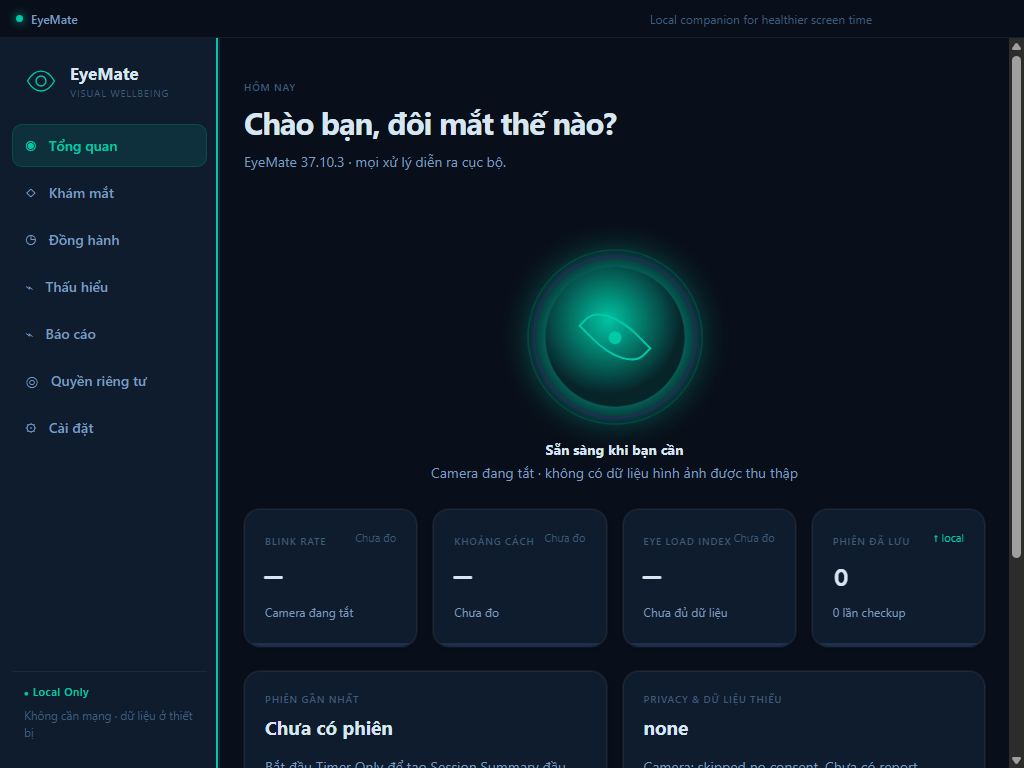
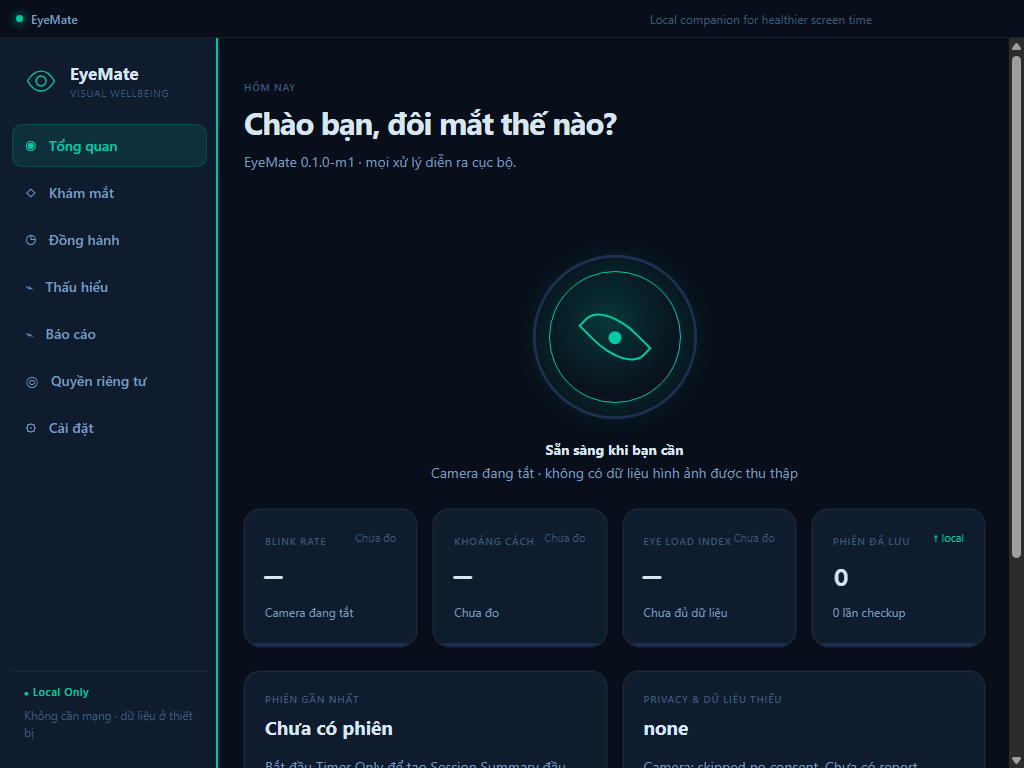
fix(ui): stabilize product version and evidence

Changed region(s): [[0.5, 0.3125, 0.6875, 0.5625], [0.2812, 0.1875, 0.5, 0.2188]]

diff --git a/src/main/main.ts b/src/main/main.ts
@@ -5,6 +5,7 @@ import { fileURLToPath } from "node:url";
 import { randomUUID } from "node:crypto";
 import { createSecureWindowOptions } from "./window-options.js";
 import type { RuntimeInfo } from "../shared/runtime-contract.js";
+import { EYEMATE_APPLICATION_VERSION } from "../shared/product-meta.js";
 import type { CheckupSummary, PrivacySummary, SurveyRequest } from "../shared/m1-contract.js";
 import { createSurveyOnlyExportPreview, resolveDeletionResult } from "../user-data/data-controls.js";
 import { DEFAULT_USER_PREFERENCES, openLocalSqliteStorage, resolveDatabasePath, type LocalSqliteStorage } from "../platform-electron/sqlite-storage.js";
@@ -41,7 +42,7 @@ if (smokeMode || companionSmokeMode || intelligenceSmokeMode || uiValidationMode
 function getRuntimeInfo(): RuntimeInfo {
   return {
     mode: "LOCAL_ONLY",
-    applicationVersion: app.getVersion()
+    applicationVersion: EYEMATE_APPLICATION_VERSION
   };
 }
 
@@ -51,6 +52,7 @@ let sessionMonotonicMs = 0;
 let lastNudgeMonotonicMs: number | null = null;
 let nudgesInSession = 0;
 const nudgeAdapter = new InProcessNudgeAdapter();
+const currentIso = (): string => uiValidationMode ? "2026-07-14T12:00:00.000Z" : new Date().toISOString();
 const sessionNow = (): number => {
   sessionMonotonicMs = Math.max(sessionMonotonicMs + 1, Math.round(performance.now()));
   return sessionMonotonicMs;
@@ -59,7 +61,7 @@ const sessionNow = (): number => {
 function persistActiveSessionBeforeExit(): void {
   if (workSession?.state !== "ACTIVE") return;
   workSession = tickSession(workSession, sessionNow());
-  storage?.saveSession({ sessionId: workSession.id, modeId: workSession.modeId, state: workSession.state, elapsedActiveMs: workSession.elapsedActiveMs, updatedAt: new Date().toISOString() });
+  storage?.saveSession({ sessionId: workSession.id, modeId: workSession.modeId, state: workSession.state, elapsedActiveMs: workSession.elapsedActiveMs, updatedAt: currentIso() });
 }
 
 function updateWorkSession(event: "START" | "STARTED" | "PAUSE" | "RESUME" | "FINISH" | "CANCEL"): WorkSession {
@@ -67,9 +69,9 @@ function updateWorkSession(event: "START" | "STARTED" | "PAUSE" | "RESUME" | "FI
   if (workSession === null) workSession = createSession(`session-${randomUUID().slice(0, 8)}`, "TIMER_ONLY");
   const previousState = workSession.state;
   workSession = applySessionEvent(workSession, event, now);
-  storage?.saveSession({ sessionId: workSession.id, modeId: workSession.modeId, state: workSession.state, elapsedActiveMs: workSession.elapsedActiveMs, updatedAt: new Date().toISOString() });
+  storage?.saveSession({ sessionId: workSession.id, modeId: workSession.modeId, state: workSession.state, elapsedActiveMs: workSession.elapsedActiveMs, updatedAt: currentIso() });
   if (workSession.state !== previousState && (workSession.state === "COMPLETED" || workSession.state === "CANCELLED")) {
-    const createdAt = new Date().toISOString();
+    const createdAt = currentIso();
     const summary = createSessionSummary(workSession, "m2-companion-policy/0.1.0");
     const summaryId = `summary-${randomUUID().slice(0, 8)}`;
     storage?.saveSessionSummary({ summaryId, sessionId: workSession.id, status: summary.timerOutcome, elapsedActiveMs: summary.durationActiveMs, createdAt, summaryJson: JSON.stringify(summary) });
@@ -115,7 +117,7 @@ function requestBreakNudge(): NudgeDecision & { readonly nudgeId: string } {
     lastNudgeMonotonicMs = now;
     nudgesInSession += 1;
     const delivery = nudgeAdapter.deliver({ nudgeId, sessionId: workSession.id, actionKey: "TAKE_SHORT_BREAK", policyVersion: decision.policyVersion });
-    storage?.recordNudge({ nudgeId, sessionId: workSession.id, decision: decision.action, reason: decision.reason, policyVersion: decision.policyVersion, createdAt: new Date().toISOString(), action: decision.suggestedActionKey, deliveryState: delivery.state === "DELIVERED" ? "EMITTED" : "ABSTAINED" });
+    storage?.recordNudge({ nudgeId, sessionId: workSession.id, decision: decision.action, reason: decision.reason, policyVersion: decision.policyVersion, createdAt: currentIso(), action: decision.suggestedActionKey, deliveryState: delivery.state === "DELIVERED" ? "EMITTED" : "ABSTAINED" });
   }
   return { ...decision, nudgeId };
 }
@@ -139,7 +141,7 @@ function runSurveyOnly(request: SurveyRequest): CheckupSummary {
   const safety = evaluateSafetyGate({ answers: { safety_signal_a: request.safety, safety_signal_b: "NEGATIVE" } }, internalSafetyCatalogue);
   const draft = recordSurveyAnswer(createSurveyDraft(), "comfort_now", request.response);
   const report = createSurveyOnlyReport(draft, safety.outcome);
-  const createdAt = new Date().toISOString();
+  const createdAt = currentIso();
   const reportId = randomUUID();
   storage?.saveSurveyOnlyReport({ reportId, status: report.status, action: report.action, provenanceVersion: report.provenance.reportSchemaVersion, createdAt });
   const source = fromSurveyOnly({ reportId, createdAt, timezone: Intl.DateTimeFormat().resolvedOptions().timeZone || "UTC", schemaVersion: report.provenance.reportSchemaVersion, symptomBurden: null });
@@ -149,14 +151,14 @@ function runSurveyOnly(request: SurveyRequest): CheckupSummary {
 
 function completeOnboardingWithoutCamera(): void {
   if (storage === null) throw new Error("LOCAL_STORAGE_UNAVAILABLE");
-  const now = new Date().toISOString();
+  const now = currentIso();
   storage.save({ stage: "COMPLETE", updatedAt: now });
   storage.saveCameraConsent({ purpose: "CAMERA_MEASUREMENT", scope: "LOCAL_CAMERA", textVersion: "m1-camera-1", decision: "SKIPPED", decidedAt: now });
 }
 
 function withdrawCameraConsent(): void {
   if (storage === null) throw new Error("LOCAL_STORAGE_UNAVAILABLE");
-  storage.saveCameraConsent({ purpose: "CAMERA_MEASUREMENT", scope: "LOCAL_CAMERA", textVersion: "m1-camera-1", decision: "WITHDRAWN", decidedAt: new Date().toISOString() });
+  storage.saveCameraConsent({ purpose: "CAMERA_MEASUREMENT", scope: "LOCAL_CAMERA", textVersion: "m1-camera-1", decision: "WITHDRAWN", decidedAt: currentIso() });
 }
 
 function analyticsInputs(): readonly AnalyticsInput[] {
@@ -168,7 +170,7 @@ function analyticsInputs(): readonly AnalyticsInput[] {
 function generateM3Report(): PersonalReport {
   const inputs = analyticsInputs();
   const timezone = inputs[0]?.timezone ?? "UTC";
-  const now = new Date().toISOString();
+  const now = currentIso();
   const report = buildPersonalReport(inputs, localDateFor(now, timezone), timezone, now);
   storage?.saveM3Record({ id: `baseline-${report.baseline.contextKey}-${now.slice(0, 10)}`, kind: "BASELINE", createdAt: now, payloadJson: JSON.stringify(report.baseline) });
   storage?.saveM3Record({ id: `daily-${report.daily.localDate}-${timezone.replace(/[^a-z0-9]/gi, "-")}`, kind: "DAILY", createdAt: now, payloadJson: JSON.stringify(report.daily) });
@@ -187,7 +189,7 @@ function currentM3Report(): PersonalReport {
   if (existing !== undefined) return existing;
   const inputs = analyticsInputs();
   const timezone = inputs[0]?.timezone ?? "UTC";
-  const now = new Date().toISOString();
+  const now = currentIso();
   return buildPersonalReport(inputs, localDateFor(now, timezone), timezone, now);
 }
 
@@ -207,7 +209,7 @@ function registerIpcHandlers(): void {
   ipcMain.handle("work-session:get", () => workSession);
   ipcMain.handle("work-session:list-summaries", () => storage?.listSessionSummaries() ?? []);
   ipcMain.handle("work-session:request-break-nudge", () => requestBreakNudge());
-  ipcMain.handle("work-session:respond-nudge", (_event, nudgeId: string, response: NudgeResponse) => storage?.recordNudgeResponse(nudgeId, response, new Date().toISOString()) ?? false);
+  ipcMain.handle("work-session:respond-nudge", (_event, nudgeId: string, response: NudgeResponse) => storage?.recordNudgeResponse(nudgeId, response, currentIso()) ?? false);
   ipcMain.handle("m3:generate-report", () => generateM3Report());
   ipcMain.handle("m3:list-reports", () => listM3Reports());
   ipcMain.handle("m3:preview-professional-summary", (_event, format: LocalExportFormat = "MARKDOWN") => {
@@ -215,7 +217,7 @@ function registerIpcHandlers(): void {
     const report = currentM3Report();
     return format === "JSON" ? JSON.stringify(report, null, 2) : renderProfessionalSummary(report);
   });
-  ipcMain.handle("m3:reset-baseline", () => { const now = new Date().toISOString(); storage?.saveM3Record({ id: `baseline-reset-${randomUUID().slice(0, 12)}`, kind: "BASELINE", createdAt: now, payloadJson: JSON.stringify({ state: "RESET", version: "m3-baseline/0.1.0" }) }); return "DELETED"; });
+  ipcMain.handle("m3:reset-baseline", () => { const now = currentIso(); storage?.saveM3Record({ id: `baseline-reset-${randomUUID().slice(0, 12)}`, kind: "BASELINE", createdAt: now, payloadJson: JSON.stringify({ state: "RESET", version: "m3-baseline/0.1.0" }) }); return "DELETED"; });
   ipcMain.handle("m3:delete-data", () => storage?.deleteM3Records() ?? "DELETED");
   ipcMain.handle("m3:delete-category", (_event, category: M3DataCategory) => {
     if (!["BASELINE", "PATTERN", "SUMMARY", "REPORT", "ALL"].includes(category)) throw new Error("INVALID_M3_DATA_CATEGORY");
@@ -329,10 +331,12 @@ async function runUiValidation(window: BrowserWindow): Promise<void> {
   const wait = async (milliseconds = 180): Promise<void> => await new Promise((resolve) => setTimeout(resolve, milliseconds));
   const evaluate = async <T>(source: string): Promise<T> => await window.webContents.executeJavaScript(source, true) as T;
   const requireTrue = (value: unknown, reason: string): void => { if (value !== true) throw new Error(reason); };
+  await evaluate("(() => { const style = document.createElement('style'); style.textContent = '*{animation:none!important;transition:none!important}'; document.head.append(style); return true; })()");
   const capture = async (name: string, width = 1280, height = 800): Promise<void> => {
     if (uiScreenshotDirectory === null) return;
     window.setSize(width, height);
     await wait(420);
+    if (name === "session-active") await evaluate("(() => { const timer = document.querySelector('.session-panel .session-timer'); timer.textContent = '00:00:01'; timer.removeAttribute('id'); const progress = document.querySelector('.session-panel .session-progress span'); if (progress) progress.style.setProperty('--progress', '1%'); return true; })()");
     requireTrue(await evaluate("document.documentElement.scrollWidth <= window.innerWidth && document.querySelector('.app-shell').getBoundingClientRect().right <= window.innerWidth + 1"), `UI_LAYOUT_OVERFLOW_${width}x${height}`);
     const image = await window.webContents.capturePage();
     await mkdir(uiScreenshotDirectory, { recursive: true });
@@ -364,6 +368,7 @@ async function runUiValidation(window: BrowserWindow): Promise<void> {
   requireTrue(await evaluate("Boolean(document.querySelector('#session-toggle')) && document.body.textContent.includes('Phiên đang hoạt động')"), "UI_SESSION_START_INVALID");
   await wait(1_050);
   requireTrue(await evaluate("document.querySelector('#session-timer').textContent !== '00:00:00'"), "UI_SESSION_TIMER_NOT_COUNTING");
+  await evaluate("document.querySelector('#session-timer').textContent = '00:00:01'; true");
   await capture("session-active");
   await capture("session-active", 1024, 768);
   await evaluate("document.querySelector('#session-toggle').click(); true"); await wait();
@@ -445,6 +450,7 @@ async function runUiValidation(window: BrowserWindow): Promise<void> {
   await evaluate("document.querySelector('#toast-region').replaceChildren(); true");
   await evaluate(`(() => { document.querySelector('#sound-toggle').click(); document.querySelector('#reduced-motion-toggle').click(); document.querySelector('#quiet-toggle').click(); const now = new Date(); const minute = now.getHours() * 60 + now.getMinutes(); const start = document.querySelector('#quiet-start'); const end = document.querySelector('#quiet-end'); const format = (value) => String(Math.floor(value / 60)).padStart(2,'0') + ':' + String(value % 60).padStart(2,'0'); start.value = format((minute + 1439) % 1440); end.value = format((minute + 2) % 1440); end.dispatchEvent(new Event('change')); return true; })()`); await wait(750);
   requireTrue(await evaluate("window.eyeMate.getUserPreferences().then((value) => value.soundEnabled && value.reducedMotion && value.quietHoursEnabled)"), "UI_SETTINGS_AUTOSAVE_INVALID");
+  await evaluate("document.querySelector('#quiet-start').value = '22:00'; document.querySelector('#quiet-end').value = '07:00'; true");
   await capture("settings");
   await capture("settings", 1024, 768);
   await window.webContents.reload(); await wait(450);

diff --git a/src/tests/unit/product-meta.test.ts b/src/tests/unit/product-meta.test.ts
@@ -1,0 +1,9 @@
+import assert from "node:assert/strict";
+import { readFileSync } from "node:fs";
+import test from "node:test";
+import { EYEMATE_APPLICATION_VERSION } from "../../shared/product-meta.js";
+
+test("phiên bản hiển thị khớp package version", () => {
+  const packageJson = JSON.parse(readFileSync("package.json", "utf8")) as { version?: unknown };
+  assert.equal(EYEMATE_APPLICATION_VERSION, packageJson.version);
+});

diff --git a/src/shared/product-meta.ts b/src/shared/product-meta.ts
@@ -1,0 +1,1 @@
+export const EYEMATE_APPLICATION_VERSION = "0.1.0-m1";
